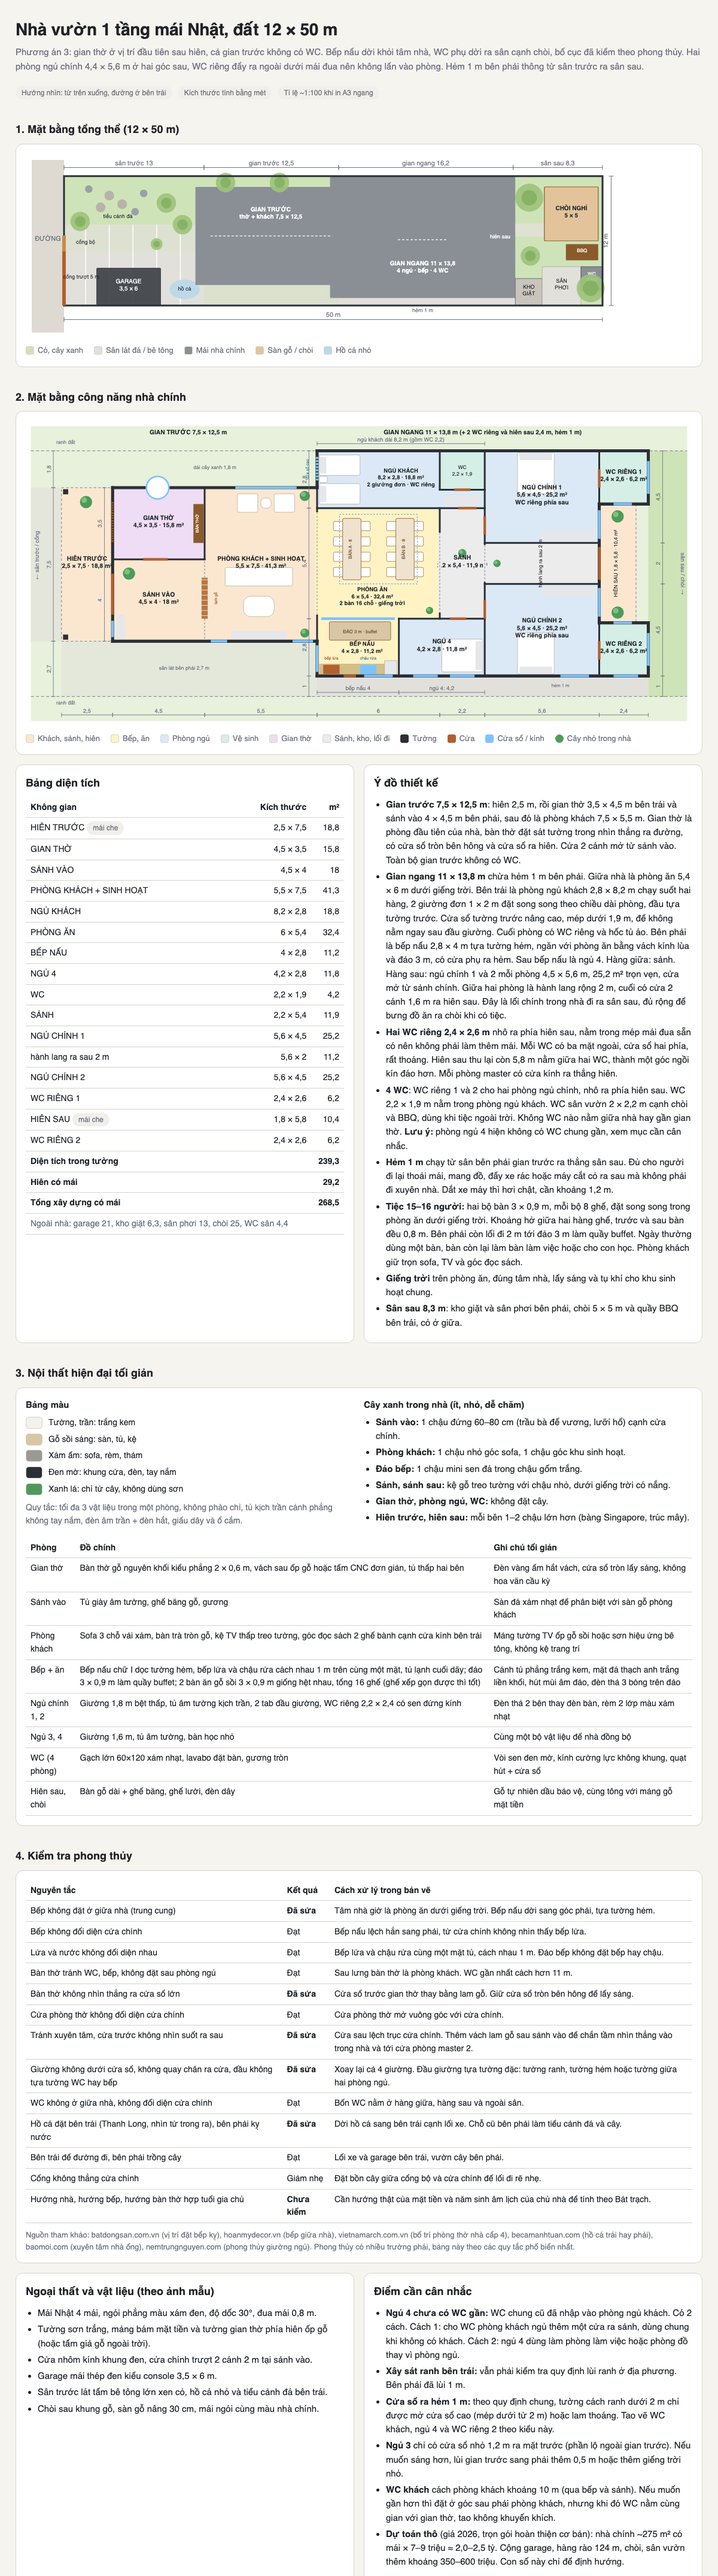
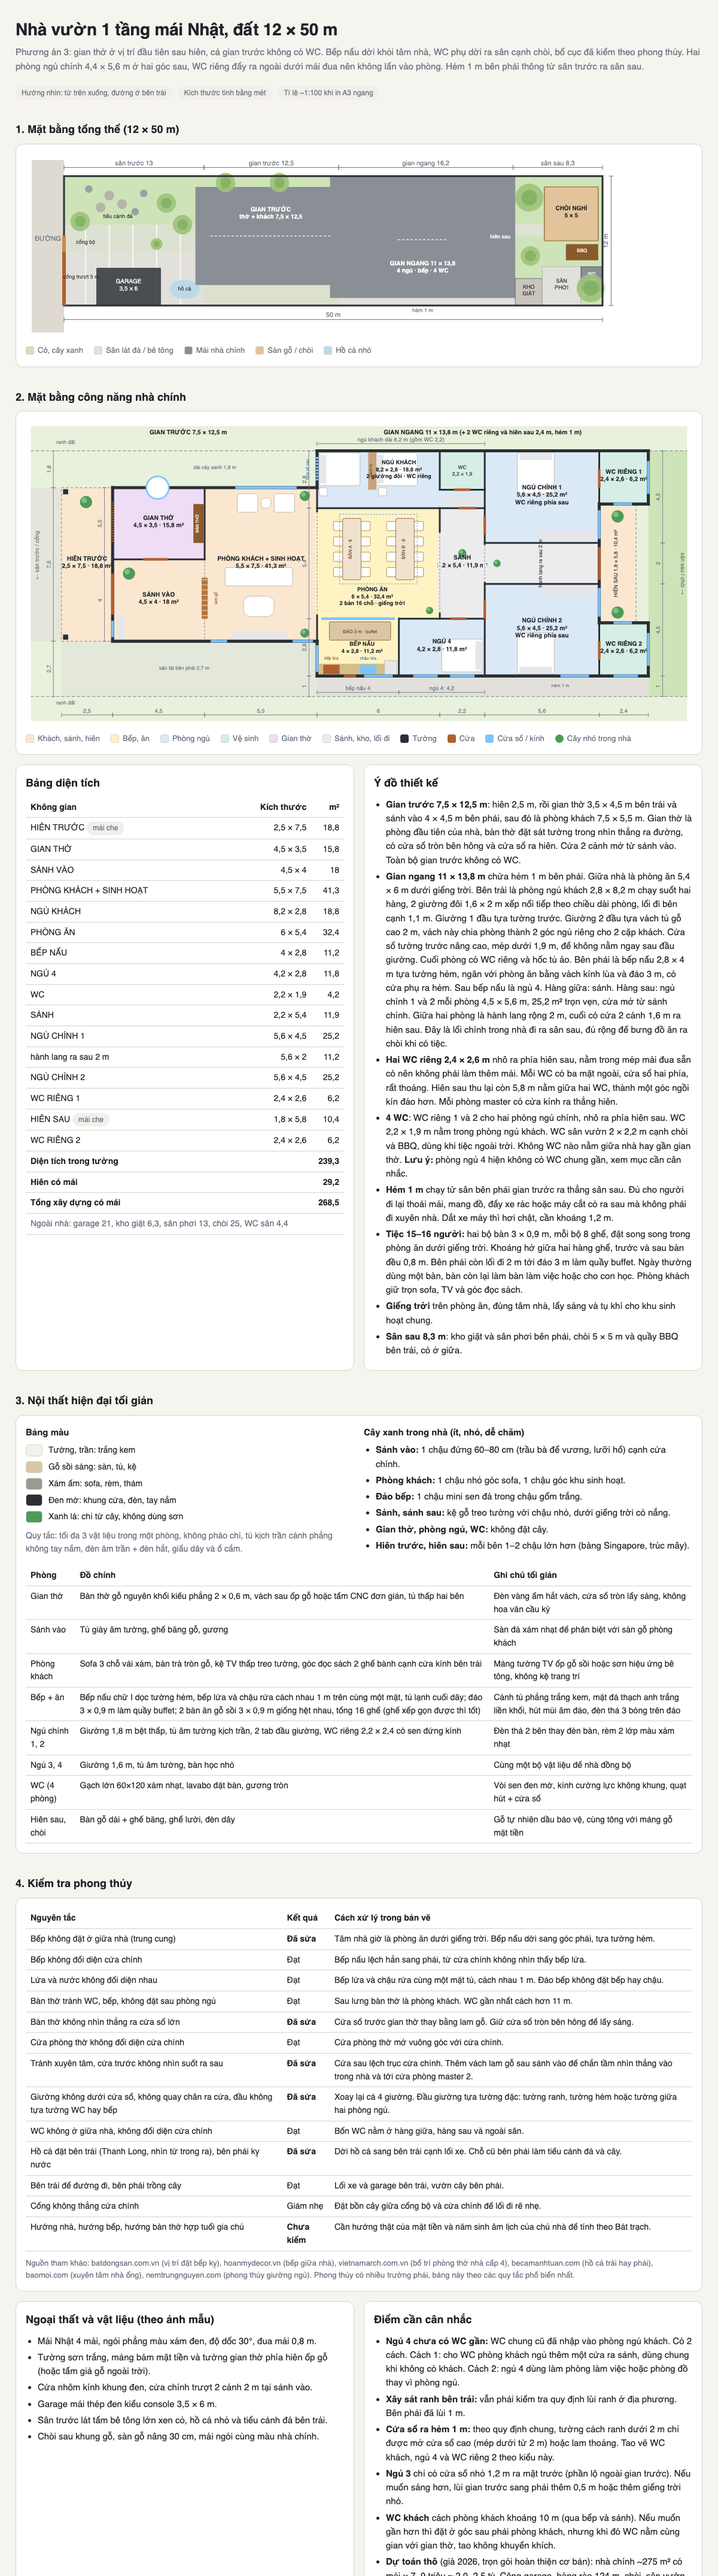
Phòng ngủ khách: 2 giường đôi nối tiếp, vách tủ ở giữa

Changed region(s): [[0.0308, 0.3428, 0.9558, 1.0], [0.4317, 0.1558, 0.5858, 0.2181]]

diff --git a/mat-bang-nha-12x50.html b/mat-bang-nha-12x50.html
@@ -82,7 +82,7 @@
       <h2 style="margin-top:0">Ý đồ thiết kế</h2>
       <ul>
         <li><b>Gian trước 7,5 × 12,5 m</b>: hiên 2,5 m, rồi gian thờ 3,5 × 4,5 m bên trái và sảnh vào 4 × 4,5 m bên phải, sau đó là phòng khách 7,5 × 5,5 m. Gian thờ là phòng đầu tiên của nhà, bàn thờ đặt sát tường trong nhìn thẳng ra đường, có cửa sổ tròn bên hông và cửa sổ ra hiên. Cửa 2 cánh mở từ sảnh vào. Toàn bộ gian trước không có WC.</li>
-        <li><b>Gian ngang 11 × 13,8 m</b> chừa hẻm 1 m bên phải. Giữa nhà là phòng ăn 5,4 × 6 m dưới giếng trời. Bên trái là phòng ngủ khách 2,8 × 8,2 m chạy suốt hai hàng, 2 giường đơn 1 × 2 m đặt song song theo chiều dài phòng, đầu tựa tường trước. Cửa sổ tường trước nâng cao, mép dưới 1,9 m, để không nằm ngay sau đầu giường. Cuối phòng có WC riêng và hốc tủ áo. Bên phải là bếp nấu 2,8 × 4 m tựa tường hẻm, ngăn với phòng ăn bằng vách kính lùa và đảo 3 m, có cửa phụ ra hẻm. Sau bếp nấu là ngủ 4. Hàng giữa: sảnh. Hàng sau: ngủ chính 1 và 2 mỗi phòng 4,5 × 5,6 m, 25,2 m² trọn vẹn, cửa mở từ sảnh chính. Giữa hai phòng là hành lang rộng 2 m, cuối có cửa 2 cánh 1,6 m ra hiên sau. Đây là lối chính trong nhà đi ra sân sau, đủ rộng để bưng đồ ăn ra chòi khi có tiệc.</li>
+        <li><b>Gian ngang 11 × 13,8 m</b> chừa hẻm 1 m bên phải. Giữa nhà là phòng ăn 5,4 × 6 m dưới giếng trời. Bên trái là phòng ngủ khách 2,8 × 8,2 m chạy suốt hai hàng, 2 giường đôi 1,6 × 2 m xếp nối tiếp theo chiều dài phòng, lối đi bên cạnh 1,1 m. Giường 1 đầu tựa tường trước. Giường 2 đầu tựa vách tủ gỗ cao 2 m, vách này chia phòng thành 2 góc ngủ riêng cho 2 cặp khách. Cửa sổ tường trước nâng cao, mép dưới 1,9 m, để không nằm ngay sau đầu giường. Cuối phòng có WC riêng và hốc tủ áo. Bên phải là bếp nấu 2,8 × 4 m tựa tường hẻm, ngăn với phòng ăn bằng vách kính lùa và đảo 3 m, có cửa phụ ra hẻm. Sau bếp nấu là ngủ 4. Hàng giữa: sảnh. Hàng sau: ngủ chính 1 và 2 mỗi phòng 4,5 × 5,6 m, 25,2 m² trọn vẹn, cửa mở từ sảnh chính. Giữa hai phòng là hành lang rộng 2 m, cuối có cửa 2 cánh 1,6 m ra hiên sau. Đây là lối chính trong nhà đi ra sân sau, đủ rộng để bưng đồ ăn ra chòi khi có tiệc.</li>
         <li><b>Hai WC riêng 2,4 × 2,6 m</b> nhô ra phía hiên sau, nằm trong mép mái đua sẵn có nên không phải làm thêm mái. Mỗi WC có ba mặt ngoài, cửa sổ hai phía, rất thoáng. Hiên sau thu lại còn 5,8 m nằm giữa hai WC, thành một góc ngồi kín đáo hơn. Mỗi phòng master có cửa kính ra thẳng hiên.</li>
         <li><b>4 WC</b>: WC riêng 1 và 2 cho hai phòng ngủ chính, nhô ra phía hiên sau. WC 2,2 × 1,9 m nằm trong phòng ngủ khách. WC sân vườn 2 × 2,2 m cạnh chòi và BBQ, dùng khi tiệc ngoài trời. Không WC nào nằm giữa nhà hay gần gian thờ. <b>Lưu ý:</b> phòng ngủ 4 hiện không có WC chung gần, xem mục cần cân nhắc.</li>
         <li><b>Hẻm 1 m</b> chạy từ sân bên phải gian trước ra thẳng sân sau. Đủ cho người đi lại thoải mái, mang đồ, đẩy xe rác hoặc máy cắt cỏ ra sau mà không phải đi xuyên nhà. Dắt xe máy thì hơi chật, cần khoảng 1,2 m.</li>
@@ -270,7 +270,7 @@ const rooms=[
   {n:'GIAN THỜ',d:[15.5,20],w:[1.8,5.3],f:'--c-worship'},
   {n:'SẢNH VÀO',d:[15.5,20],w:[5.3,9.3],f:'--c-living'},
   {n:'PHÒNG KHÁCH + SINH HOẠT',d:[20,25.5],w:[1.8,9.3],f:'--c-living'},
-  {n:'NGỦ KHÁCH',d:[25.5,33.7],w:[0,2.8],f:'--c-bed',minus:4.18,sub:'2 giường đơn · WC riêng',lp:[29.6,1.4]},
+  {n:'NGỦ KHÁCH',d:[25.5,33.7],w:[0,2.8],f:'--c-bed',minus:4.18,sub:'2 giường đôi · WC riêng',lp:[29.5,1.0]},
   {n:'PHÒNG ĂN',d:[25.5,31.5],w:[2.8,8.2],f:'--c-kitchen',sub:'2 bàn 16 chỗ · giếng trời',lp:[28.2,7.2]},
   {n:'BẾP NẤU',d:[25.5,29.5],w:[8.2,11.0],f:'--c-kitchen',lp:[27.7,9.7]},
   {n:'NGỦ 4',d:[29.5,33.7],w:[8.2,11.0],f:'--c-bed'},
@@ -319,7 +319,9 @@ const rooms=[
   rect(g,m,28.8,29.4,10.25,10.95,{fill:'#e5e7eb',stroke:'#b8b3a8'}); 
   rect(g,m,26.1,29.1,8.35,9.25,{fill:'#d9c6a5',stroke:'#8b5a2b','stroke-width':1,rx:2}); label(g,m,27.6,8.9,'ĐẢO 3 m · buffet',{size:9,fill:'#5b3a1a'});
   function bed(d1,d2,w1,w2,head){rect(g,m,d1,d2,w1,w2,F); const h=0.35; if(head==='w0')rect(g,m,d1+0.1,d2-0.1,w1,w1+h,{fill:'#e5e7eb',rx:2}); if(head==='w1')rect(g,m,d1+0.1,d2-0.1,w2-h,w2,{fill:'#e5e7eb',rx:2}); if(head==='d1')rect(g,m,d2-h,d2,w1+0.1,w2-0.1,{fill:'#e5e7eb',rx:2}); if(head==='ds')rect(g,m,d1,d1+h,w1+0.1,w2-0.1,{fill:'#e5e7eb',rx:2});}
-  bed(25.6,27.6,0.2,1.2,'ds'); bed(25.6,27.6,1.6,2.6,'ds'); rect(g,m,25.6,26.0,1.25,1.55,F); rect(g,m,31.7,33.5,2.2,2.7,{fill:'#e5e7eb',rx:2}); bed(31.6,33.6,9.2,10.8,'d1'); bed(35.3,37.1,0.1,2.1,'w0'); bed(35.3,37.1,8.9,10.9,'w1');
+  bed(25.6,27.6,0.1,1.7,'ds'); bed(28.4,30.4,0.1,1.7,'ds');
+  rect(g,m,28.0,28.4,0,1.9,{fill:'#c9a37a',rx:1}); label(g,m,28.2,0.95,'vách tủ',{size:8,fill:'#5b3a1a',rot:-90});
+  rect(g,m,25.6,26.0,1.8,2.2,F); rect(g,m,28.5,28.9,1.8,2.2,F); rect(g,m,31.7,33.5,2.2,2.7,{fill:'#e5e7eb',rx:2}); bed(31.6,33.6,9.2,10.8,'d1'); bed(35.3,37.1,0.1,2.1,'w0'); bed(35.3,37.1,8.9,10.9,'w1');
   rect(g,m,36.4,39.1,3.9,4.4,{fill:'#e5e7eb',rx:2}); rect(g,m,36.4,39.1,6.6,7.1,{fill:'#e5e7eb',rx:2}); // tủ áo
   function plant(d,w,r){const cx=m.x(d),cy=m.y(w),R=(r||0.3)*m.S; el('circle',{cx,cy,r:R,fill:'#4f9a5a'},g); el('circle',{cx:cx-R*.3,cy:cy-R*.3,r:R*.45,fill:'#7cc27f'},g);}
   plant(14.2,2.5,0.3); plant(16.3,6.0,0.3); plant(24.9,2.2,0.25); plant(24.9,8.9,0.22); plant(31.0,7.8,0.18); plant(32.6,5.0,0.2); plant(34.3,5.5,0.18); plant(40.2,3.2,0.3); plant(40.2,7.9,0.3);

diff --git a/3d-nha-12x50.html b/3d-nha-12x50.html
@@ -203,8 +203,9 @@ iw(39.3,0,39.3,0.9); iw(39.3,1.8,39.3,2.6); iw(39.3,8.4,39.3,9.3); iw(39.3,10.2,
 // interior hints
 box(19.45,19.95,2.6,4.5,0.15,1.0,M.wood,inner);                 // bàn thờ
 box(25.6,29.4,10.4,10.95,0.15,1.0,M.wood,inner); box(26.1,29.1,8.35,9.25,0.15,1.0,M.deck,inner); box(26.75,27.65,3.3,6.3,0.7,0.78,M.wood,inner); box(29.35,30.25,3.3,6.3,0.7,0.78,M.wood,inner);
-[[25.6,27.6,0.2,1.2],[25.6,27.6,1.6,2.6],[31.6,33.6,9.2,10.8],[35.3,37.1,0.1,2.1],[35.3,37.1,8.9,10.9]].forEach(([a,b,c,d])=>box(a,b,c,d,0.15,0.55,M.white,inner));
+[[25.6,27.6,0.1,1.7],[28.4,30.4,0.1,1.7],[31.6,33.6,9.2,10.8],[35.3,37.1,0.1,2.1],[35.3,37.1,8.9,10.9]].forEach(([a,b,c,d])=>box(a,b,c,d,0.15,0.55,M.white,inner));
 box(19.85,20.15,6.2,8.2,0.15,2.4,M.wood,inner);   // lam gỗ bình phong
+box(28.0,28.4,0.05,1.9,0.15,2.15,M.wood,inner);   // vách tủ phòng khách ngủ
 box(21.0,24.3,5.7,6.6,0.15,0.75,new THREE.MeshStandardMaterial({color:0x9a9a94}),inner);
 
 // roofs

diff --git a/BOI-CANH-DU-AN.md b/BOI-CANH-DU-AN.md
@@ -14,7 +14,7 @@
 - Sân trước 13 m: cổng, garage bên trái (nhìn từ trong ra), hồ cá bên trái cạnh lối xe, tiểu cảnh đá bên phải.
 - Gian trước 7,5 x 12,5 m: hiên 2,5; gian thờ 4,5 x 3,5 (phòng đầu tiên) + sảnh vào 4,5 x 4; lam gỗ bình phong; phòng khách 5,5 x 7,5.
 - Gian ngang 11 x 13,8 m, hẻm 1 m bên phải thông ra sân sau.
-  - Hàng trước: ngủ khách 2,8 x 8,2 chạy suốt 2 hàng, 2 giường đơn, WC trong phòng | phòng ăn 5,4 x 6 ở tâm nhà, giếng trời, 2 bàn 8 chỗ | bếp nấu 2,8 x 4 tựa tường hẻm + đảo buffet 3 m.
+  - Hàng trước: ngủ khách 2,8 x 8,2 chạy suốt 2 hàng, 2 giường đôi nối tiếp, vách tủ ở giữa, WC trong phòng | phòng ăn 5,4 x 6 ở tâm nhà, giếng trời, 2 bàn 8 chỗ | bếp nấu 2,8 x 4 tựa tường hẻm + đảo buffet 3 m.
   - Hàng giữa: sảnh | ngủ 4 (2,8 x 4,2).
   - Hàng sau: ngủ chính 1 và 2 (4,5 x 5,6) | hành lang 2 m ra hiên sau.
   - 2 WC riêng 2,4 x 2,6 nhô ra sau dưới mái đua, hiên sau 5,8 m ở giữa.
